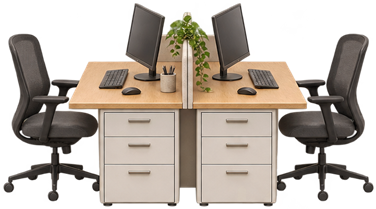
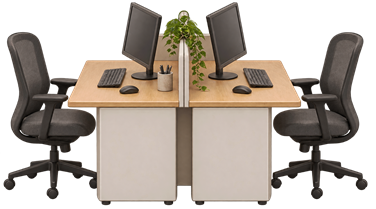
furniture

diff --git a/src/furniture.ts b/src/furniture.ts
@@ -34,7 +34,17 @@ export function addFurniture(scene: Phaser.Scene, left: number, top: number, sca
     const texture = scene.textures.getFrame(key)
     const height = props[key].height * scale
     const width = height * texture.width / texture.height
-    if (key === 'meeting-table') {
+    if (key === 'paired-workstations') {
+      scene.add.ellipse(worldX, worldY - height * 0.025, width * 0.48, 5 * scale, 0x392c23, 0.16)
+      for (const side of [-1, 1]) {
+        scene.add.ellipse(worldX + side * width * 0.35, worldY - height * 0.05,
+          width * 0.065, 4 * scale, 0x392c23, 0.19)
+        for (const wheel of [0.25, 0.48]) {
+          scene.add.ellipse(worldX + side * width * wheel, worldY - height * 0.095,
+            width * 0.043, 3 * scale, 0x392c23, 0.14)
+        }
+      }
+    } else if (key === 'meeting-table') {
       const contacts = [
         { x: -0.46, y: 0.11, width: 0.045 },
         { x: -0.34, y: 0.015, width: 0.05 },
